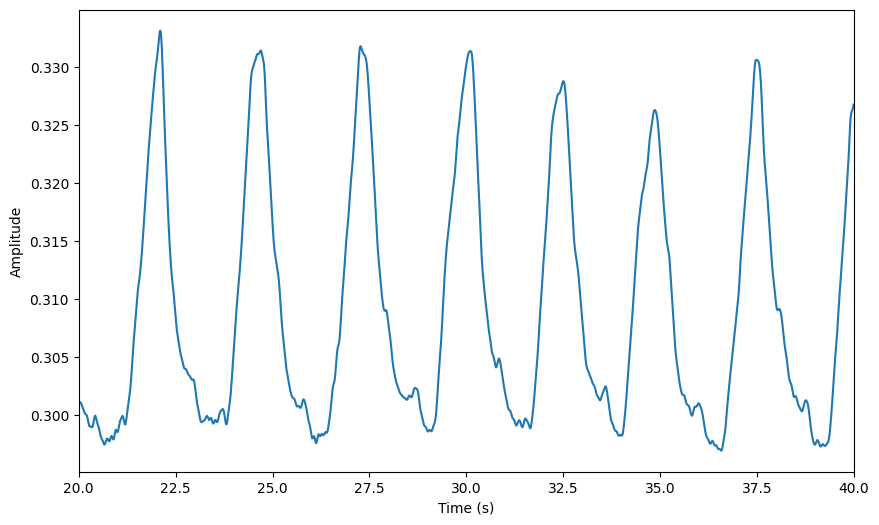
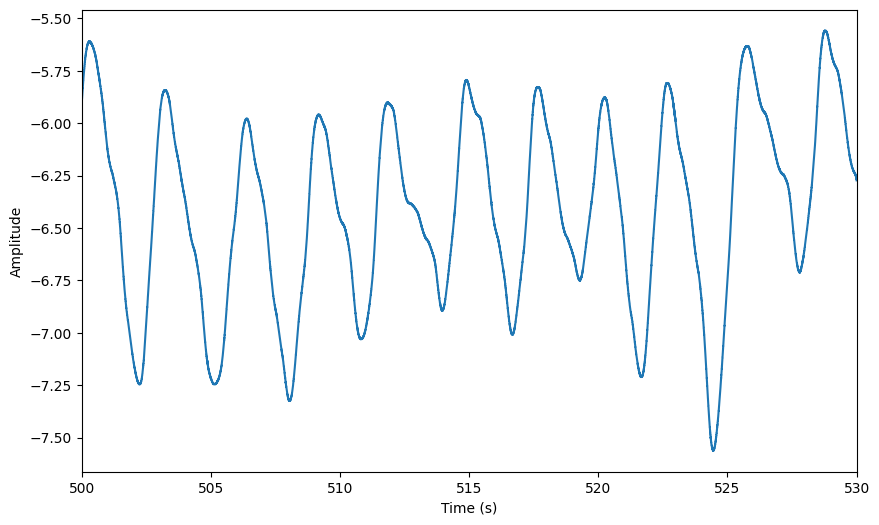
Merge pull request #12 from laurabpaulsen/dev
Updates to documentation

Pull request: Updates to documentation

diff --git a/docs_src/generate_tutorial_cards.py b/docs_src/generate_tutorial_cards.py
@@ -75,6 +75,9 @@ def main():
     for fname in sorted(TUTORIALS_DIR.glob("*.ipynb")):
         if fname.name.startswith("index"):
             continue
+        if "DRAFT" in fname.name:
+            print(f"⚠️ Skipping draft notebook: {fname}")
+            continue
 
         nb = nbformat.read(fname, as_version=4)
         base = fname.stem

diff --git a/docs_src/tutorials/index.rst b/docs_src/tutorials/index.rst
@@ -20,7 +20,7 @@ These tutorials walk you through using **Pyriodic** for circular data analysis, 
       <div class="col-md-4">
         <div class="card shadow-sm mb-4">
           <a href="02_phase_extraction.html" class="stretched-link"></a>
-          <img src="../_static/tutorials/default.png" class="card-img-top" alt="Methods for phase extraction from respiration data">
+          <img src="../_static/tutorials/02_phase_extraction.png" class="card-img-top" alt="Methods for phase extraction from respiration data">
           <div class="card-body">
             <h5 class="card-title">Methods for phase extraction from respiration data</h5>
             <p class="card-text">See notebook for details.</p>
@@ -30,22 +30,22 @@ These tutorials walk you through using **Pyriodic** for circular data analysis, 
 
       <div class="col-md-4">
         <div class="card shadow-sm mb-4">
-          <a href="03_why_circular_stats.html" class="stretched-link"></a>
-          <img src="../_static/tutorials/03_why_circular_stats.png" class="card-img-top" alt="Why circular statistics matter - the case of respiratory signals">
+          <a href="03_descriptive_stats.html" class="stretched-link"></a>
+          <img src="../_static/tutorials/03_descriptive_stats.png" class="card-img-top" alt="Descriptive statistics for circular data">
           <div class="card-body">
-            <h5 class="card-title">Why circular statistics matter - the case of respiratory signals</h5>
-            <p class="card-text">See notebook for details.</p>
+            <h5 class="card-title">Descriptive statistics for circular data</h5>
+            <p class="card-text">We will explore how to compute descriptive statistics for circular data using the Pyriodic package, and illustrate why we need special methods for circular data.</p>
           </div>
         </div>
       </div>
 
       <div class="col-md-4">
         <div class="card shadow-sm mb-4">
-          <a href="04_permutation_against_null.html" class="stretched-link"></a>
-          <img src="../_static/tutorials/04_permutation_against_null.png" class="card-img-top" alt="Permutation test against null distribution of respiratory phase angles">
+          <a href="04a_permutation_against_surrogate_shuffled.html" class="stretched-link"></a>
+          <img src="../_static/tutorials/04a_permutation_against_surrogate_shuffled.png" class="card-img-top" alt="Permutation test between observed samples and surrogate samples (peak-to-peak shuffled)">
           <div class="card-body">
-            <h5 class="card-title">Permutation test against null distribution of respiratory phase angles</h5>
-            <p class="card-text">This notebook demonstrates how to make a permutation-based test to determine whether events (e.g., target stimuli) tend to occur at a specific phase of the respiratory cycle. As some phase angles are more common than others (exhalation tend to last longer than inspiration), we compare the observed phase angles at stimulus onset to a null distribution derived from the underlying respiratory signal.</p>
+            <h5 class="card-title">Permutation test between observed samples and surrogate samples (peak-to-peak shuffled)</h5>
+            <p class="card-text">In this tutorial, we will perform a permutation test between observed samples and surrogate samples (peak-to-peak shuffled) to assess whether the observed samples are significantly different from what would be expected by chance.</p>
           </div>
         </div>
       </div>
@@ -53,9 +53,53 @@ These tutorials walk you through using **Pyriodic** for circular data analysis, 
       <div class="col-md-4">
         <div class="card shadow-sm mb-4">
           <a href="05_permutation_two_samples.html" class="stretched-link"></a>
-          <img src="../_static/tutorials/default.png" class="card-img-top" alt="Two sample permutation test of respiratory phase angles">
+          <img src="../_static/tutorials/05_permutation_two_samples.png" class="card-img-top" alt="Two sample permutation test of respiratory phase angles">
           <div class="card-body">
             <h5 class="card-title">Two sample permutation test of respiratory phase angles</h5>
+            <p class="card-text">This notebook runs permutation tests to compare two samples of respiratory phase angles. This is useful when you want to compare the phase angles of two different conditions or groups.</p>
+          </div>
+        </div>
+      </div>
+
+      <div class="col-md-4">
+        <div class="card shadow-sm mb-4">
+          <a href="05_permutation_two_samples_grouplevel.html" class="stretched-link"></a>
+          <img src="../_static/tutorials/default.png" class="card-img-top" alt="Two sample permutation test of respiratory phase angles at the group level">
+          <div class="card-body">
+            <h5 class="card-title">Two sample permutation test of respiratory phase angles at the group level</h5>
+            <p class="card-text">This notebook runs permutation tests to compare two samples of respiratory phase angles. This is useful when you want to compare the phase angles of two different conditions or groups.</p>
+          </div>
+        </div>
+      </div>
+
+      <div class="col-md-4">
+        <div class="card shadow-sm mb-4">
+          <a href="07_association_with_behavioural_variable.html" class="stretched-link"></a>
+          <img src="../_static/tutorials/07_association_with_behavioural_variable.png" class="card-img-top" alt="Test association with behavioural variable such as reaction time">
+          <div class="card-body">
+            <h5 class="card-title">Test association with behavioural variable such as reaction time</h5>
+            <p class="card-text">This notebook runs permutation tests to see whether there is a statistically significant relationship between the phase angle at which a target stimulus was presented and the response was given by the participant. The analysis is done for each participant separately, and the results are visualised in polar plots.</p>
+          </div>
+        </div>
+      </div>
+
+      <div class="col-md-4">
+        <div class="card shadow-sm mb-4">
+          <a href="08_methods_for_generating_surrogates.html" class="stretched-link"></a>
+          <img src="../_static/tutorials/default.png" class="card-img-top" alt="Choosing a method for generating surrogate data for inference">
+          <div class="card-body">
+            <h5 class="card-title">Choosing a method for generating surrogate data for inference</h5>
+            <p class="card-text">See notebook for details.</p>
+          </div>
+        </div>
+      </div>
+
+      <div class="col-md-4">
+        <div class="card shadow-sm mb-4">
+          <a href="IAAFT_draft.html" class="stretched-link"></a>
+          <img src="../_static/tutorials/IAAFT_draft.png" class="card-img-top" alt="Computation times">
+          <div class="card-body">
+            <h5 class="card-title">Computation times</h5>
             <p class="card-text">See notebook for details.</p>
           </div>
         </div>
@@ -70,6 +114,16 @@ These tutorials walk you through using **Pyriodic** for circular data analysis, 
 
    01_intro
    02_phase_extraction
-   03_why_circular_stats
-   04_permutation_against_null
+   03_descriptive_stats
+   04a_permutation_against_null_timeshifted_DRAFT
+   04a_permutation_against_surrogate_shuffled
+   04a_permutation_against_surrogate_shuffled_grouplevel_DRAFT
    05_permutation_two_samples
+   05_permutation_two_samples_grouplevel
+   06_why_circular_stats_DRAFT
+   07_association_with_behavioural_variable
+   08_methods_for_generating_surrogates
+   09_physiological_parameters_DRAFT
+   100_response_DRAFT
+   IAAFT_draft
+   testing_DRAFT

diff --git a/docs_src/tutorials/_image_manifest.rst b/docs_src/tutorials/_image_manifest.rst
@@ -7,16 +7,28 @@
    .. image:: /_images/01_intro.png
       :alt: preload
 
+   .. image:: /_images/02_phase_extraction.png
+      :alt: preload
+
+   .. image:: /_images/03_descriptive_stats.png
+      :alt: preload
+
+   .. image:: /_images/04a_permutation_against_surrogate_shuffled.png
+      :alt: preload
+
+   .. image:: /_images/05_permutation_two_samples.png
+      :alt: preload
+
    .. image:: /_images/default.png
       :alt: preload
 
-   .. image:: /_images/03_why_circular_stats.png
-      :alt: preload
-
-   .. image:: /_images/04_permutation_against_null.png
+   .. image:: /_images/07_association_with_behavioural_variable.png
       :alt: preload
 
    .. image:: /_images/default.png
+      :alt: preload
+
+   .. image:: /_images/IAAFT_draft.png
       :alt: preload
 
    </div>